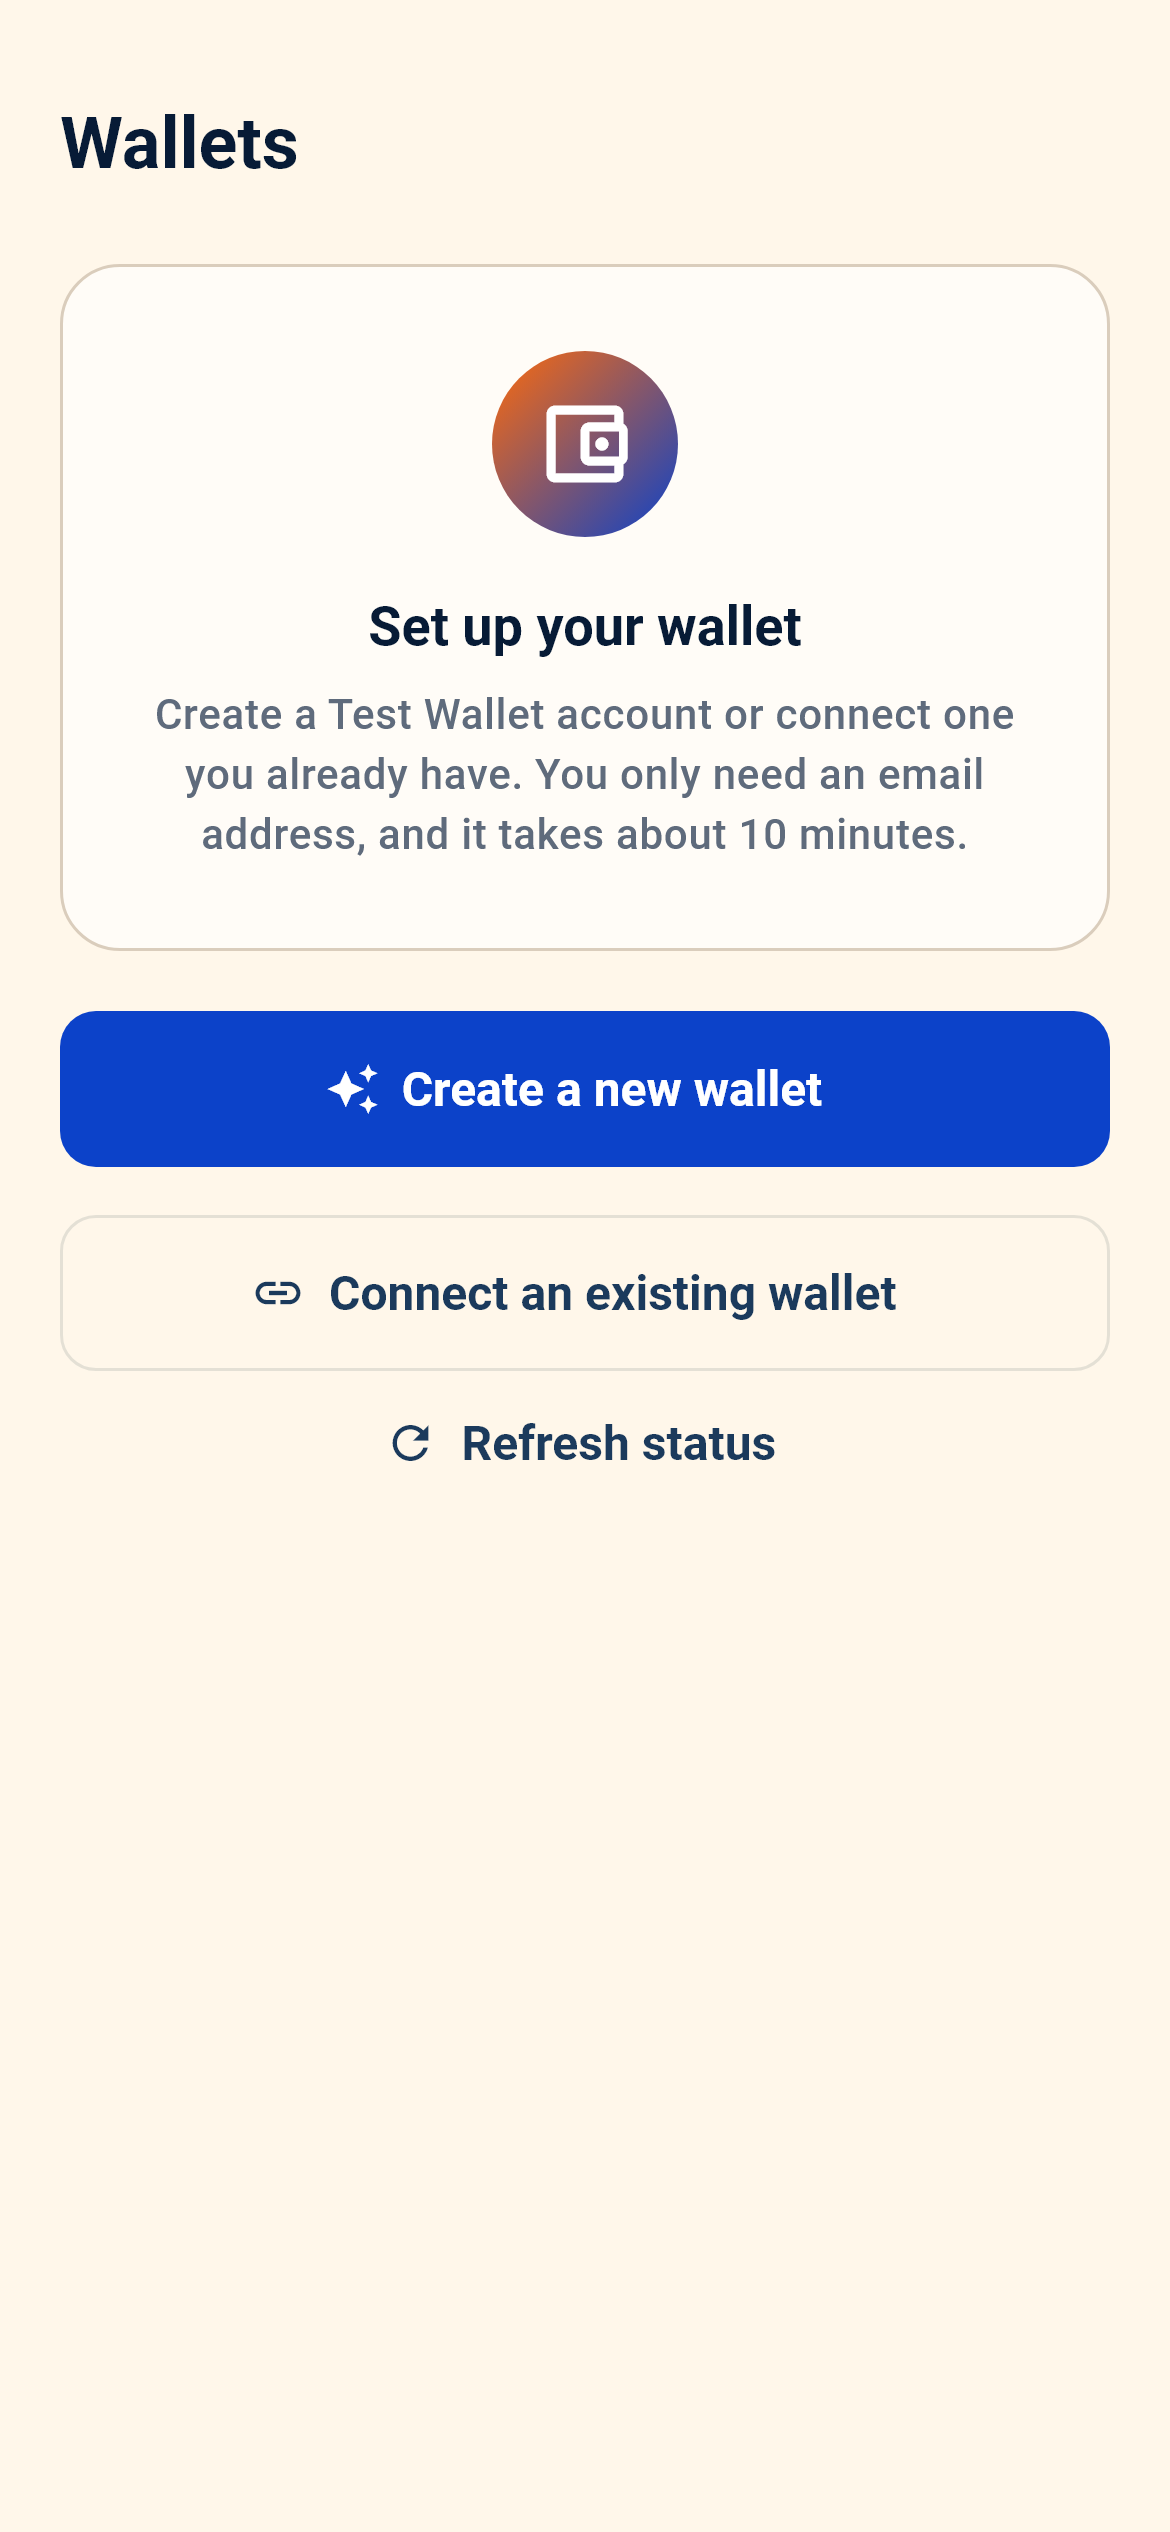
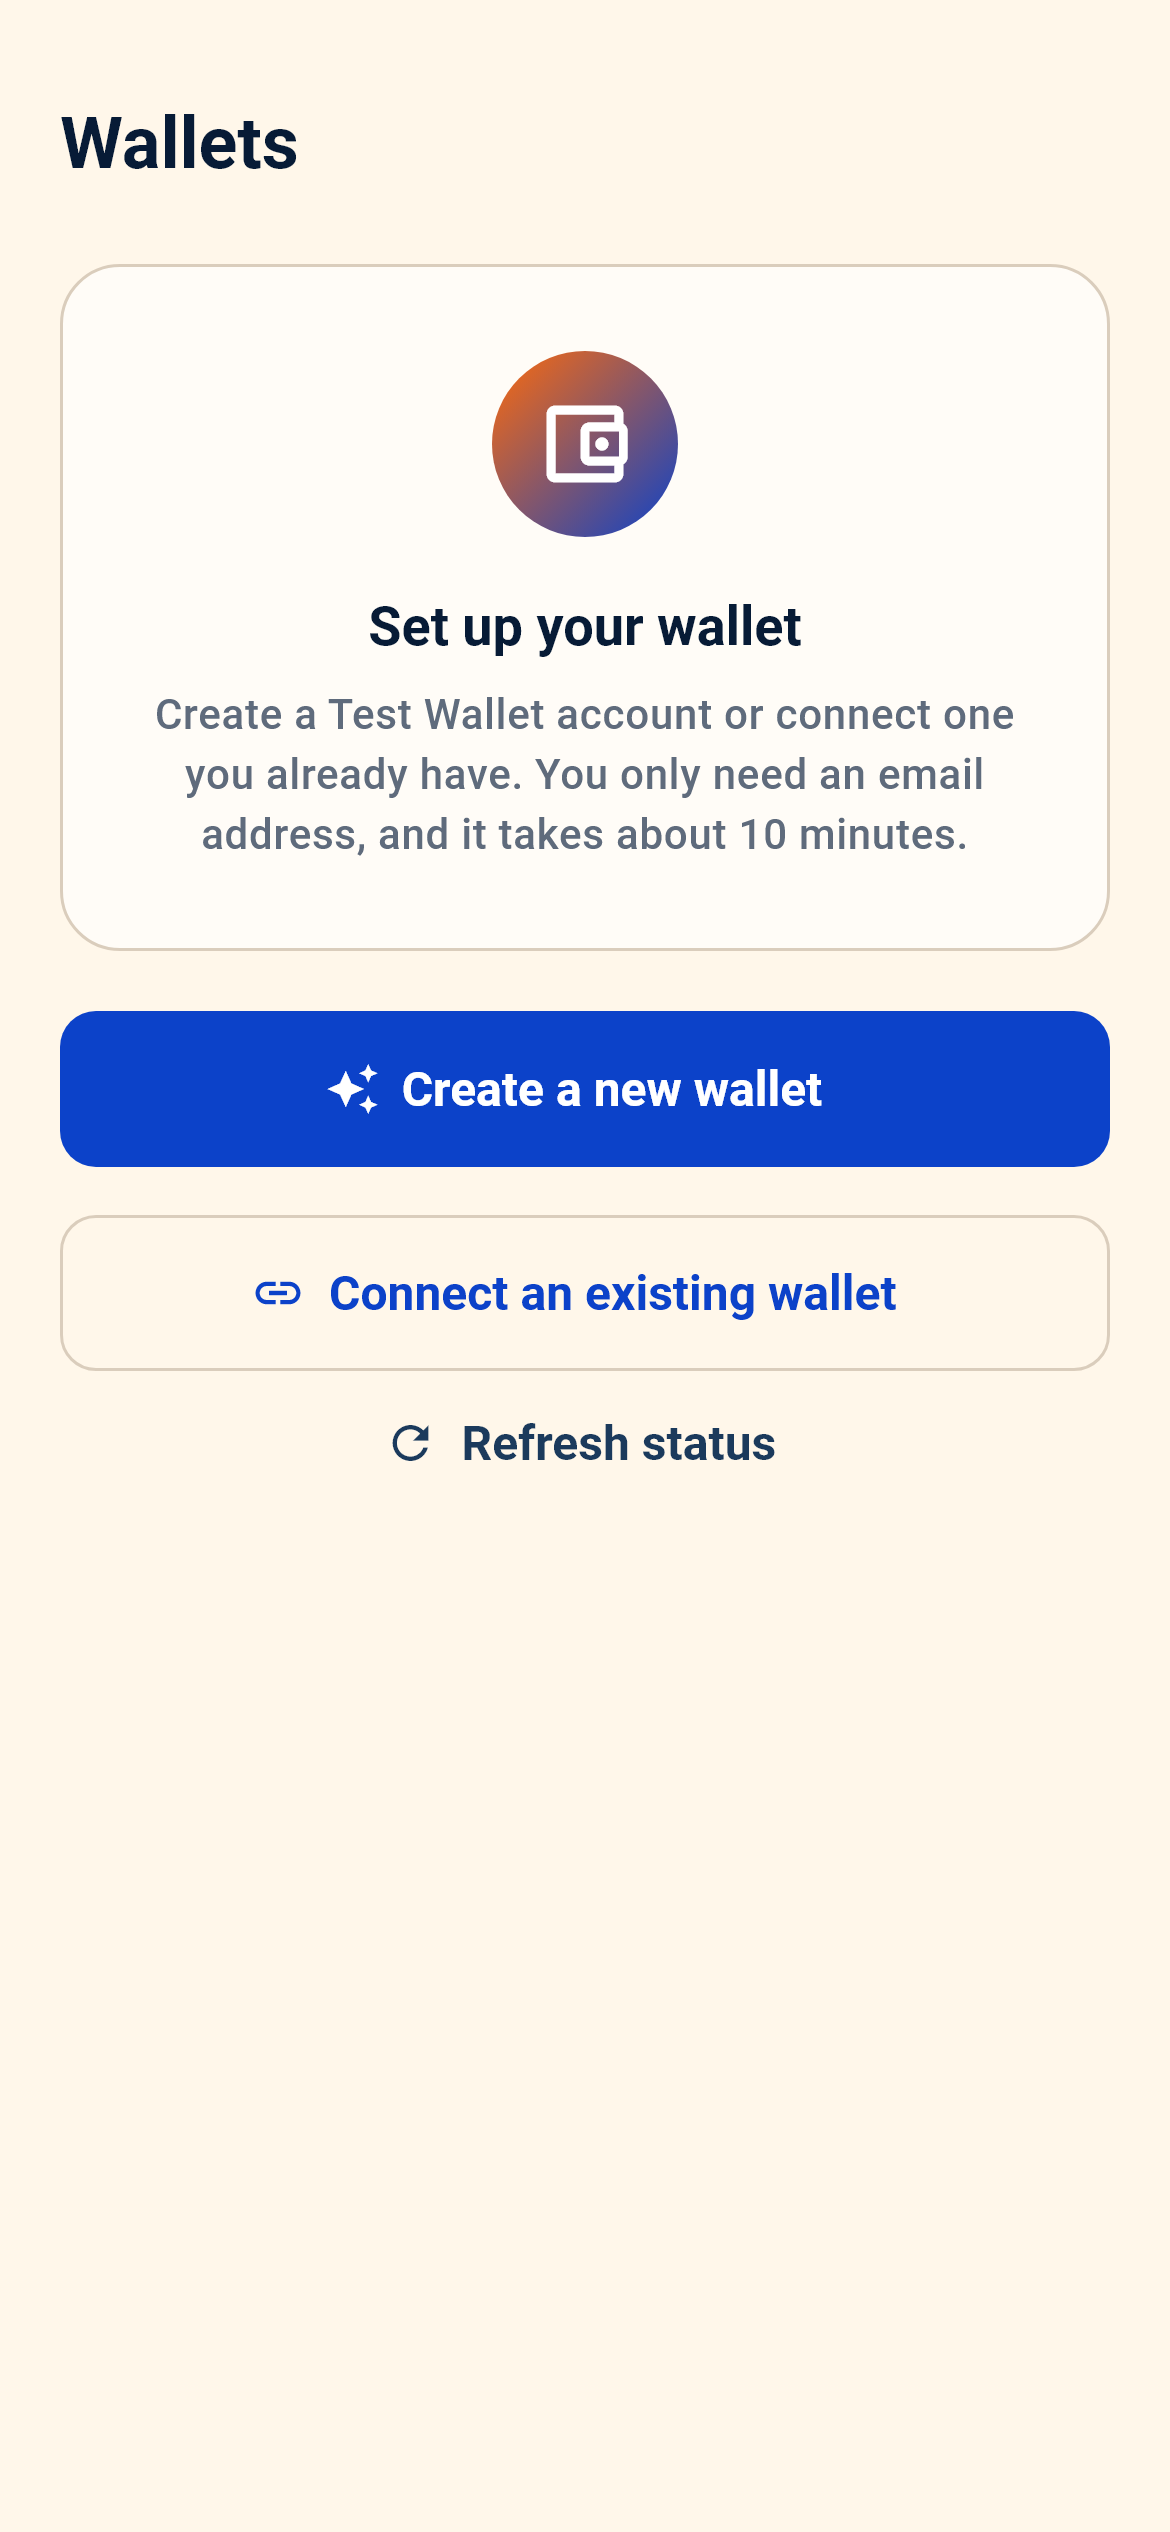
Unify field chrome and primary buttons

Changed region(s): [[0.2769, 0.4992, 0.7692, 0.5304], [0.2154, 0.4992, 0.2462, 0.5304]]

diff --git a/mobile/test/capture_chrome_screenshots_test.dart b/mobile/test/capture_chrome_screenshots_test.dart
@@ -1,0 +1,172 @@
+import 'dart:convert';
+import 'dart:io';
+
+import 'package:atomic_commits/app/dependencies.dart';
+import 'package:atomic_commits/app/theme/app_theme.dart';
+import 'package:atomic_commits/core/network/api_client.dart';
+import 'package:atomic_commits/core/storage/token_storage.dart';
+import 'package:atomic_commits/features/auth/auth_controller.dart';
+import 'package:atomic_commits/features/auth/data/auth_api.dart';
+import 'package:atomic_commits/features/auth/data/auth_repository.dart';
+import 'package:atomic_commits/features/auth/models/user_model.dart';
+import 'package:atomic_commits/features/merchant/screens/enter_code_screen.dart';
+import 'package:atomic_commits/features/wallet/screens/wallet_screen.dart';
+import 'package:dio/dio.dart';
+import 'package:flutter/material.dart';
+import 'package:flutter/services.dart';
+import 'package:flutter_secure_storage/flutter_secure_storage.dart';
+import 'package:flutter_test/flutter_test.dart';
+
+const _fontDir =
+    r'C:\Users\Leeroy Chakanyuka\development\SDKs\flutter\bin\cache\artifacts\material_fonts';
+
+Future<void> _loadFont(String fileName, String family) async {
+  final bytes = await File('$_fontDir\\$fileName').readAsBytes();
+  final data = ByteData.view(
+    bytes.buffer,
+    bytes.offsetInBytes,
+    bytes.lengthInBytes,
+  );
+  final loader = FontLoader(family)..addFont(Future.value(data));
+  await loader.load();
+}
+
+Future<void> _loadFonts() async {
+  for (final file in [
+    'roboto-regular.ttf',
+    'roboto-medium.ttf',
+    'roboto-bold.ttf',
+  ]) {
+    await _loadFont(file, 'Roboto');
+  }
+  await _loadFont('materialicons-regular.otf', 'MaterialIcons');
+}
+
+class _Users extends AuthController {
+  _Users()
+    : super(
+        AuthRepository(
+          authApi: AuthApi(ApiClient()),
+          tokenStorage: TokenStorage(),
+          apiClient: ApiClient(),
+        ),
+      );
+  @override
+  UserModel get user =>
+      UserModel(id: 1, name: 'Alice', email: 'alice@example.test');
+}
+
+class _ChromeApi implements HttpClientAdapter {
+  static const _wallet = <String, dynamic>{
+    'address': r'$ilp.interledger-test.dev/alice',
+    'assetCode': 'USD',
+    'assetScale': 2,
+    'isDefaultReceiving': true,
+    'publicName': 'Alice',
+  };
+
+  static const _merchant = <String, dynamic>{
+    'displayName': 'Alice',
+    'status': 'ACTIVE',
+    'walletAddress': r'$ilp.interledger-test.dev/alice',
+  };
+
+  @override
+  Future<ResponseBody> fetch(
+    RequestOptions options,
+    Stream<Uint8List>? requestStream,
+    Future<void>? cancelFuture,
+  ) async {
+    Map<String, dynamic> response;
+    if (options.path == '/wallets' && options.method == 'GET') {
+      response = {'wallets': [_wallet]};
+    } else if (options.path == '/merchant' && options.method == 'GET') {
+      response = {'merchant': _merchant};
+    } else if (options.path == '/wallet' && options.method == 'GET') {
+      response = {'wallet': null};
+    } else if (options.path == '/payment-grants' && options.method == 'GET') {
+      response = {'grants': <dynamic>[]};
+    } else {
+      throw StateError('Unexpected request: ${options.method} ${options.path}');
+    }
+    return ResponseBody.fromString(
+      jsonEncode(response),
+      200,
+      headers: {
+        Headers.contentTypeHeader: ['application/json'],
+      },
+    );
+  }
+
+  @override
+  void close({bool force = false}) {}
+}
+
+Future<void> _setup(WidgetTester tester) async {
+  FlutterSecureStorage.setMockInitialValues({});
+  final users = _Users();
+  final dio = Dio(BaseOptions(baseUrl: 'https://api.example.test/api'))
+    ..httpClientAdapter = _ChromeApi();
+  getIt.registerSingleton<ApiClient>(ApiClient(client: dio));
+  getIt.registerSingleton<AuthController>(users);
+  addTearDown(() async {
+    await getIt.reset();
+    users.dispose();
+  });
+  addTearDown(() async {
+    await tester.pumpWidget(const SizedBox.shrink());
+  });
+  tester.view.physicalSize = const Size(1170, 2532);
+  tester.view.devicePixelRatio = 3.0;
+  addTearDown(tester.view.reset);
+}
+
+Future<void> _capture(String name) async {
+  await expectLater(
+    find.byType(MaterialApp),
+    matchesGoldenFile('../../docs/images/ui-chrome/$name.png'),
+  );
+}
+
+void main() {
+  TestWidgetsFlutterBinding.ensureInitialized();
+  setUpAll(_loadFonts);
+
+  testWidgets('chrome — merchant receive fields', (tester) async {
+    await _setup(tester);
+    await tester.pumpWidget(
+      MaterialApp(
+        debugShowCheckedModeBanner: false,
+        theme: AppTheme.light,
+        home: const EnterCodeScreen(),
+      ),
+    );
+    await tester.pumpAndSettle();
+    expect(find.text('Purchase amount (USD)'), findsOneWidget);
+    expect(find.text('Customer payment code'), findsOneWidget);
+    expect(find.text('Submit payment'), findsOneWidget);
+    await _capture('receive-payment-fields');
+    await tester.pumpWidget(const SizedBox.shrink());
+  });
+
+  testWidgets('chrome — wallet connect dialog field', (tester) async {
+    await _setup(tester);
+    await tester.pumpWidget(
+      MaterialApp(
+        debugShowCheckedModeBanner: false,
+        theme: AppTheme.light,
+        home: const WalletScreen(),
+      ),
+    );
+    await tester.pumpAndSettle();
+    await tester.tap(find.text('Connect an existing wallet'));
+    await tester.pumpAndSettle();
+    await tester.tap(find.text('Next'));
+    await tester.pumpAndSettle();
+    await tester.tap(find.text('Continue'));
+    await tester.pumpAndSettle();
+    expect(find.byType(TextField), findsOneWidget);
+    await _capture('wallet-connect-field');
+    await tester.pumpWidget(const SizedBox.shrink());
+  });
+}

diff --git a/mobile/lib/app/theme/app_theme.dart b/mobile/lib/app/theme/app_theme.dart
@@ -65,7 +65,20 @@ abstract final class AppTheme {
 
       elevatedButtonTheme: ElevatedButtonThemeData(
         style: ElevatedButton.styleFrom(
-          backgroundColor: AppColours.primary,
+          backgroundColor: AppColours.cobalt,
+          foregroundColor: AppColours.onPrimary,
+          elevation: 0,
+          minimumSize: const Size(double.infinity, AppSpacing.buttonHeight),
+          textStyle: AppTypography.button,
+          shape: RoundedRectangleBorder(
+            borderRadius: BorderRadius.circular(AppSpacing.buttonRadius),
+          ),
+        ),
+      ),
+
+      filledButtonTheme: FilledButtonThemeData(
+        style: FilledButton.styleFrom(
+          backgroundColor: AppColours.cobalt,
           foregroundColor: AppColours.onPrimary,
           elevation: 0,
           minimumSize: const Size(double.infinity, AppSpacing.buttonHeight),
@@ -78,10 +91,10 @@ abstract final class AppTheme {
 
       outlinedButtonTheme: OutlinedButtonThemeData(
         style: OutlinedButton.styleFrom(
-          foregroundColor: AppColours.primary,
+          foregroundColor: AppColours.cobalt,
           minimumSize: const Size(double.infinity, AppSpacing.buttonHeight),
           textStyle: AppTypography.button,
-          side: const BorderSide(color: AppColours.border),
+          side: const BorderSide(color: AppColours.fieldBorder),
           shape: RoundedRectangleBorder(
             borderRadius: BorderRadius.circular(AppSpacing.buttonRadius),
           ),
@@ -97,22 +110,35 @@ abstract final class AppTheme {
 
       inputDecorationTheme: InputDecorationTheme(
         filled: true,
-        fillColor: AppColours.surface,
+        fillColor: AppColours.fieldFill,
         contentPadding: const EdgeInsets.symmetric(
           horizontal: AppSpacing.lg,
           vertical: AppSpacing.lg,
         ),
+        hintStyle: const TextStyle(
+          color: AppColours.fieldHint,
+          fontWeight: FontWeight.w400,
+        ),
+        labelStyle: const TextStyle(color: AppColours.labelInk),
         border: OutlineInputBorder(
           borderRadius: BorderRadius.circular(AppSpacing.inputRadius),
-          borderSide: const BorderSide(color: AppColours.border),
+          borderSide: const BorderSide(color: AppColours.fieldBorder),
         ),
         enabledBorder: OutlineInputBorder(
           borderRadius: BorderRadius.circular(AppSpacing.inputRadius),
-          borderSide: const BorderSide(color: AppColours.border),
+          borderSide: const BorderSide(color: AppColours.fieldBorder),
         ),
         focusedBorder: OutlineInputBorder(
           borderRadius: BorderRadius.circular(AppSpacing.inputRadius),
-          borderSide: const BorderSide(color: AppColours.primary, width: 1.5),
+          borderSide: const BorderSide(color: AppColours.fieldFocus, width: 1.5),
+        ),
+        errorBorder: OutlineInputBorder(
+          borderRadius: BorderRadius.circular(AppSpacing.inputRadius),
+          borderSide: const BorderSide(color: AppColours.error),
+        ),
+        focusedErrorBorder: OutlineInputBorder(
+          borderRadius: BorderRadius.circular(AppSpacing.inputRadius),
+          borderSide: const BorderSide(color: AppColours.error, width: 1.5),
         ),
       ),
 

diff --git a/mobile/lib/features/merchant/screens/enter_code_screen.dart b/mobile/lib/features/merchant/screens/enter_code_screen.dart
@@ -300,12 +300,6 @@ class _EnterCodeScreenState extends State<EnterCodeScreen> {
             const SizedBox(height: 16),
             ElevatedButton(
               onPressed: _busy ? null : _activate,
-              style: ElevatedButton.styleFrom(
-                disabledBackgroundColor: Theme.of(context).colorScheme.primary,
-                disabledForegroundColor: Theme.of(context)
-                    .colorScheme
-                    .onPrimary,
-              ),
               child: _busy
                   ? const Row(
                       mainAxisSize: MainAxisSize.min,
@@ -390,11 +384,6 @@ class _EnterCodeScreenState extends State<EnterCodeScreen> {
                     ),
                     decoration: InputDecoration(
                       labelText: 'Purchase amount (${wallet!['assetCode']})',
-                      filled: true,
-                      fillColor: Colors.white,
-                      border: OutlineInputBorder(
-                        borderRadius: BorderRadius.circular(12),
-                      ),
                     ),
                     validator: (value) =>
                         parseMinorAmount(
@@ -415,14 +404,9 @@ class _EnterCodeScreenState extends State<EnterCodeScreen> {
                       fontWeight: FontWeight.w700,
                       letterSpacing: 1,
                     ),
-                    decoration: InputDecoration(
+                    decoration: const InputDecoration(
                       labelText: 'Customer payment code',
                       hintText: 'ABC234-123456',
-                      filled: true,
-                      fillColor: Colors.white,
-                      border: OutlineInputBorder(
-                        borderRadius: BorderRadius.circular(12),
-                      ),
                     ),
                     validator: (value) =>
                         RegExp(r'^[A-Z0-9]{4,12}-[0-9]{6}$')
@@ -463,16 +447,6 @@ class _EnterCodeScreenState extends State<EnterCodeScreen> {
             const SizedBox(height: 20),
             ElevatedButton(
               onPressed: _busy ? null : _redeem,
-              style: ElevatedButton.styleFrom(
-                backgroundColor: cobalt,
-                foregroundColor: Colors.white,
-                disabledBackgroundColor: cobalt,
-                disabledForegroundColor: Colors.white,
-                minimumSize: const Size.fromHeight(52),
-                shape: RoundedRectangleBorder(
-                  borderRadius: BorderRadius.circular(12),
-                ),
-              ),
               child: _busy
                   ? const Row(
                       mainAxisSize: MainAxisSize.min,

diff --git a/mobile/lib/core/widgets/auth/custom_text_field.dart b/mobile/lib/core/widgets/auth/custom_text_field.dart
@@ -100,34 +100,6 @@ class CustomTextField extends StatelessWidget {
                 horizontal: 8,
                 vertical: 15,
               ),
-              border: OutlineInputBorder(
-                borderRadius: BorderRadius.circular(13),
-                borderSide: const BorderSide(color: AppColours.fieldBorder),
-              ),
-              enabledBorder: OutlineInputBorder(
-                borderRadius: BorderRadius.circular(13),
-                borderSide: const BorderSide(color: AppColours.fieldBorder),
-              ),
-              focusedBorder: OutlineInputBorder(
-                borderRadius: BorderRadius.circular(13),
-                borderSide: const BorderSide(
-                  color: AppColours.fieldFocus,
-                  width: 1.5,
-                ),
-              ),
-              errorBorder: OutlineInputBorder(
-                borderRadius: BorderRadius.circular(13),
-                borderSide: const BorderSide(color: AppColours.error),
-              ),
-              focusedErrorBorder: OutlineInputBorder(
-                borderRadius: BorderRadius.circular(13),
-                borderSide: const BorderSide(
-                  color: AppColours.error,
-                  width: 1.5,
-                ),
-              ),
-              filled: true,
-              fillColor: AppColours.fieldFill,
               prefixIcon: Padding(
                 padding: const EdgeInsets.only(left: 14, right: 10),
                 child: Icon(icon, size: 18, color: AppColours.fieldIcon),

diff --git a/mobile/lib/app/theme/app_spacing.dart b/mobile/lib/app/theme/app_spacing.dart
@@ -9,6 +9,6 @@ abstract final class AppSpacing {
   static const double screenPadding = 20;
   static const double cardRadius = 12;
   static const double buttonRadius = 12;
-  static const double inputRadius = 12;
+  static const double inputRadius = 13;
   static const double buttonHeight = 52;
 }
